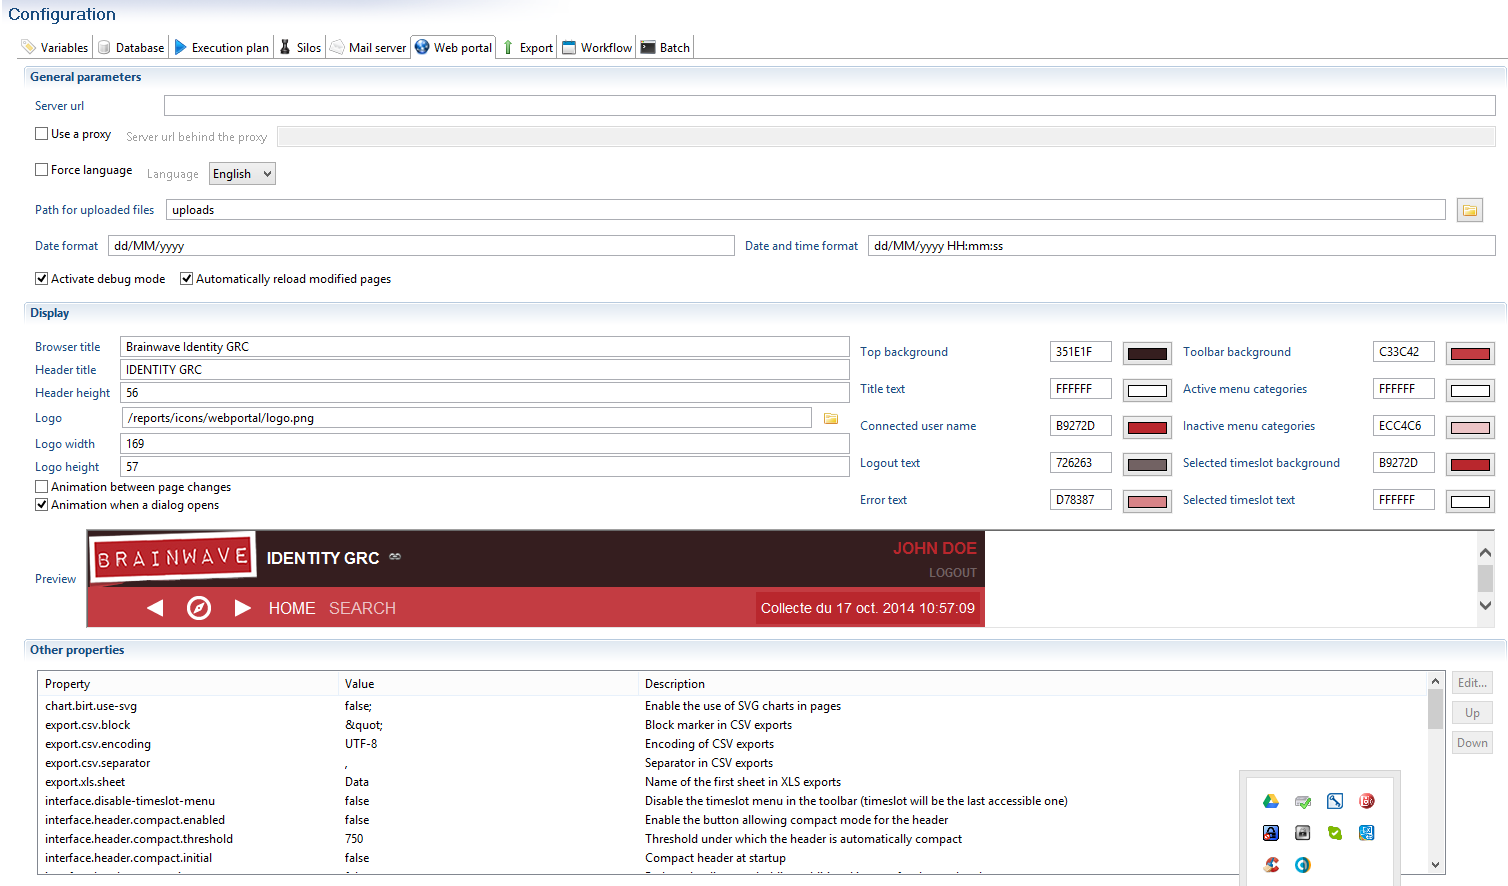
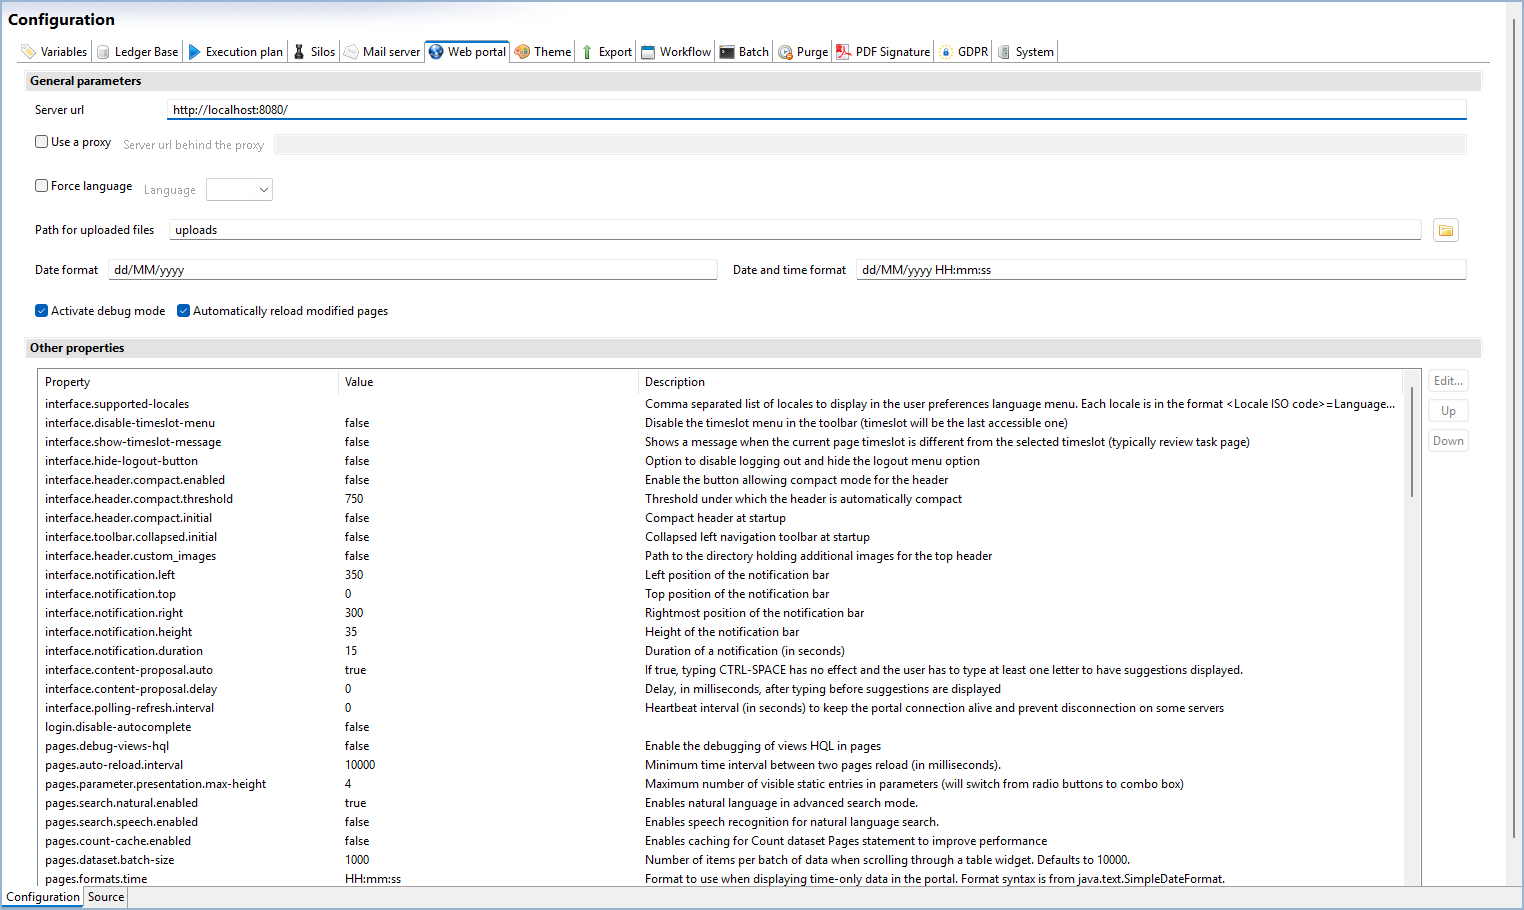
SQ-2059: Remove Google Sheet link + adaptation

Changed region(s): [[0.0, 0.0, 1.0, 1.0]]

diff --git a/documentation/igrc-platform/installation-and-deployment/03-brainwaves-web-portal/01-deployment.md b/documentation/igrc-platform/installation-and-deployment/03-brainwaves-web-portal/01-deployment.md
@@ -7,51 +7,50 @@ description: "Deployment"
 
 ## File Configuration
 
-From the 2015 version of the Identity Analytics software and onward the project configuration is set via the technical configuration file. Before generating the WAR file, or the archive to be deployed in your tomcat instance you can modify the configuration settings of your portal.  
+From the 2015 version of the Identity Analytics software and onward the project configuration is set via the technical configuration file. Before generating the WAR file, or the archive to be deployed in your tomcat instance you can modify the configuration settings of your portal.
 
-![File Configuration](./images/webportal-techConfig.png "File Configuration")  
+![File Configuration](./images/webportal-techConfig.png "File Configuration")
 
-The technical configuration is accessible via the **Audit** tab of the studio. The tabs that include configuration parameters of the web portal are **Web Portal** and **Export**. The 'Web Portal' allows you to modify the web portal settings while the tab **Export** allows you to configure the export options of the web portal.  
+The technical configuration is accessible via the **Audit** tab of the studio. The tabs that include configuration parameters of the web portal are **Web Portal** and **Export**. The 'Web Portal' allows you to modify the web portal settings while the tab **Export** allows you to configure the export options of the web portal.
 
-## Web portal parameters  
+## Web portal parameters
 
-The **web portal** tab allows you to configure the options of the web portal.  
+The **Web portal** and **Theme** tabs allow you to configure the options of the web portal.
 
-![File Configuration](./images/webportal-webportalTab.png "File Configuration")  
+![Web Portal Configuration](./images/webportal-webportalTab.png "Web Portal Configuration")
 
-The general parameter section allows you to determine your portal's URL. This is used in the links sent in the workflow emails, or if you choose to use a proxy. You can force the language of the portal. Two languages are at your disposal: English and French. You can also define the file upload path and the date format to be used.  
+The **General parameter** section allows you to determine your portal's URL. This is used in the links sent in the workflow emails, or if you choose to use a proxy. You can force the language of the portal. Two languages are at your disposal: English and French. You can also define the file upload path and the date format to be used.
 
-To facilitate the development of pages you can choose to activate the debug mode and enable the automatic reload of pages. This allow you to visualize the parameters used in the current page and automatically update it after each modification. These two options are to useful when the project folder of the WAR file points to the current project folder of the studio (see the next section for more information).  
+To facilitate the development of pages you can choose to activate the _debug_ mode and enable the automatic reload of pages. This allow you to visualize the parameters used in the current page and automatically update it after each modification. These two options are to useful when the project folder of the WAR file points to the current project folder of the studio (see the next section for more information).
 
-The display section allows you to configure the header of you web page. You can define the dimensions, the colors and the logos to be use to personalize the header to the style of your company. A preview is displayed.  
+The **Other properties** section allows you to change the parameters that control the behavior of your web page.
 
-The final section allows you to change the parameters that control the behavior of your web page. The parameters that can be changed are listed here:  
-
-![Webportal Configuration Parameters](./images/webportal_configuration_parameters.png "Webportal Configuration Parameters")  
-[Open here](https://docs.google.com/spreadsheets/d/19fytvmtX3PWUi8zTsRhliyef3bSICxFjUIecRhFj07U/edit#gid=0)
-
-> [!warning]  
+> [!warning]
 >
 > If the parameter `reports.compress-cache` is modified from `False` to `True` or vice versa it is imperative to purge the report cache directory before restarting the portal.  
-> By default the report cache directory is located:  
+> By default the report cache directory is located:
 >
 > ```powershell
-> <TOMCAT HOME>\webapps\<PROJECT>\WEB-INF\workspace\.metadata\.plugins\com.brainwave.portal.ui.handler.pages\birt_reports`  
+> <TOMCAT HOME>\webapps\<PROJECT>\WEB-INF\workspace\.metadata\.plugins\com.brainwave.portal.ui.handler.pages\birt_reports`
 > ```
 >
-> It is possible to display dynamically the name of the person assigned to the task. To do so the message must start with the code `nomacro:` and the assignee is declare using `{assignee}`. See the example below:  
+> It is possible to display dynamically the name of the person assigned to the task. To do so the message must start with the code `nomacro:` and the assignee is declare using `{assignee}`. See the example below:
 >
 > ```powershell
 > nomacro:The task has already been assigned to {assignee}
 > ```
 
+![Theme Configuration](./images/webportal-themeTab.png "Theme Configuration")
+
+The **Display** section allows you to configure the header of you web page. You can define the dimensions, the colors and the logos to be use to personalize the header to the style of your company. A preview is displayed.
+
 For more information on web portal configuration please refer to the demonstration project included in the software as an example.
 
 ### Date formatting
 
-To ensure the correct handling of dates in the portal, it is necessary to configure the date formats in the other properties of the webportal tab of the technical configuration.  
+To ensure the correct handling of dates in the portal, it is necessary to configure the date formats in the other properties of the webportal tab of the technical configuration.
 
-By default the following languages are handled:  
+By default the following languages are handled:
 
 ```properties
 pages.formats.date.en_US="MM/dd/yyyy"
@@ -65,15 +64,15 @@ pages.formats.time.fr"="HH:mm:ss"
 pages.formats.datetime.fr"="dd/MM/yyyy HH:mm:ss"
 ```
 
-For additional languages, add the corresponding language suffix to the `pages.formats.date.`, `pages.formats.time.` and `pages.formats.datetime.` parameters.  
+For additional languages, add the corresponding language suffix to the `pages.formats.date.`, `pages.formats.time.` and `pages.formats.datetime.` parameters.
 
 > [!warning] Converting dates using the page NLS is **NOT** supported
 
-## Export parameters  
+## Export parameters
 
-The export tab allows you to configure the web portal generation options.  
+The export tab allows you to configure the web portal generation options.
 
-In this tab you can configure:  
+In this tab you can configure:
 
 - The desired theme
 - The use of a JNDI datasource (see [here](./02-parametrization) for more information)
@@ -81,18 +80,18 @@ In this tab you can configure:
 - The location of the license and properties files
 - The location of the webapps work directory
 
-![Export parameters  ](./images/TechConfig-ExportTab.png "Export parameters  ")  
+![Export parameters  ](./images/TechConfig-ExportTab.png "Export parameters  ")
 
 > As of version 2016 R3 it is also possible to configure the location of the webapps workspace. This corresponds to the bottom section Work directory location.
 > This is also the case for the theme. See [here](#select-the-web-portal-theme) for more information.
-> As of version 2016 R3 SP6 and when using a Linux OS, it is possible to declare the project folder as read-only. In this case it is necessary to check the check box "Allow read only project directory".|  
+> As of version 2016 R3 SP6 and when using a Linux OS, it is possible to declare the project folder as read-only. In this case it is necessary to check the check box "Allow read only project directory".|
 
-The configuration of each option is independent from one another.  
+The configuration of each option is independent from one another.
 
 ### Project Location
 
 The project can either be embedded in or detached from the web archive.  
-Detaching the project from the web archive is useful in the development stages of the project as coupled with the automatic reload of pages (the 'Automatically reload modified pages' option in the 'Webportal' tab of the project's technical configuration). This option can also be used if you wish to reduce the size of the web archive.  
+Detaching the project from the web archive is useful in the development stages of the project as coupled with the automatic reload of pages (the 'Automatically reload modified pages' option in the 'Webportal' tab of the project's technical configuration). This option can also be used if you wish to reduce the size of the web archive.
 
 > When the project is detached it is possible to point to the current iGRC project location or to provide directly the path to the desired directory. In the first case the product automatically uses the path to the current project in the studio's workspace.
 
@@ -103,49 +102,49 @@ As of version 2016 R3 if you choose to detach the project from the workspace and
 The selection of different themes is available as of version 2016 R3.
 
 It is possible to change the default theme used by the web portal.  
-To do so navigate to the technical configuration of your project and open the Export tab. In this tab you will find a combo-box "Selected theme" that contains names of available themes. There are at the moment two themes available :  
+To do so navigate to the technical configuration of your project and open the Export tab. In this tab you will find a combo-box "Selected theme" that contains names of available themes. There are at the moment two themes available :
 
 > 1. The default theme
 > 2. And the DSG theme used by the DSG booster
 
 You can select the desired theme and it will automatically included to the exported web archive.
 
-![Configuration](./images/theme-selection.png "Configuration")  
+![Configuration](./images/theme-selection.png "Configuration")
 
-> 1. If no theme is selected in your technical configuration then the product will automatically use the default theme.  
-> 2. It is necessary to (re-)export and (re-)deploy the web archive after each modification of the theme as only the selected theme is included in the exported web archive.  
+> 1. If no theme is selected in your technical configuration then the product will automatically use the default theme.
+> 2. It is necessary to (re-)export and (re-)deploy the web archive after each modification of the theme as only the selected theme is included in the exported web archive.
 
 ### Licence and properties location
 
-In the same way the location of the licence file and the properties files can either be embedded in or detached from the web archive. The use of property file is optional but allows the user to overwrite the information provided in the technical configuration. Please see [here](../../getting-started/05-studio-editors#using-the-editors)for more information.  
+In the same way the location of the licence file and the properties files can either be embedded in or detached from the web archive. The use of property file is optional but allows the user to overwrite the information provided in the technical configuration. Please see [here](../../getting-started/05-studio-editors#using-the-editors)for more information.
 
 ### Work directory location
 
-As of version 2016 R3 it is possible to detach the webapps workspace, that contains all temporary files created/used in the webportal.  
+As of version 2016 R3 it is possible to detach the webapps workspace, that contains all temporary files created/used in the webportal.
 
-> When using this method to detach the workspace form the webapp it is imperative to include the project into this folder.  
+> When using this method to detach the workspace form the webapp it is imperative to include the project into this folder.
 
-## Deployed File generation  
+## Deployed File generation
 
 The portal file to be deployed is generated in Identity Analytics's studio. To show data in the web portal it is necessary to have an activated timeslot in the identity ledger. Once data is activated in the ledger it is no longer possible to delete it.  
-To generate the web portal it is recommended to use the main menu tab of the audit project by clicking of **Generate web portal** :  
+To generate the web portal it is recommended to use the main menu tab of the audit project by clicking of **Generate web portal** :
 
-![Generate web portal](./images/webportal-generateTab.png "Generate web portal")  
+![Generate web portal](./images/webportal-generateTab.png "Generate web portal")
 
-It is nevertheless possible to generate the web portal archive directly of the menu: **File/Export...** , or from the contextual menu at the root of the audit project: **Export...**.  
+It is nevertheless possible to generate the web portal archive directly of the menu: **File/Export...** , or from the contextual menu at the root of the audit project: **Export...**.
 
-![Export](./images/webportal-exportMenu.png "Export")  
+![Export](./images/webportal-exportMenu.png "Export")
 
 A window is opened where it is necessary to select **'Export portal'** under the folder iGRC Analytics.  
-Once the export wizard open, you will have to define the folder where you want the web portal to be created. You can choose to export the web portal in the form of an archive or a WAR file. We recommend exporting to a WAR file.  
+Once the export wizard open, you will have to define the folder where you want the web portal to be created. You can choose to export the web portal in the form of an archive or a WAR file. We recommend exporting to a WAR file.
 
-![Export portal](./images/webportal-exportConfig.png "Export portal")  
+![Export portal](./images/webportal-exportConfig.png "Export portal")
 
-The export configuration is done in the technical configuration window. During the export wizard you must:  
+The export configuration is done in the technical configuration window. During the export wizard you must:
 
 - Define the destination folder of the archive
-- Define the technical configuration to use  
+- Define the technical configuration to use
 
-Once the file generated, you then need to deploy it in your web server.  
+Once the file generated, you then need to deploy it in your web server.
 
 Please refer to the documentation of your server for more information on deploying the WAR file: [Tomcat Web Application Deployment](https://tomcat.apache.org/tomcat-9.0-doc/deployer-howto.html)
